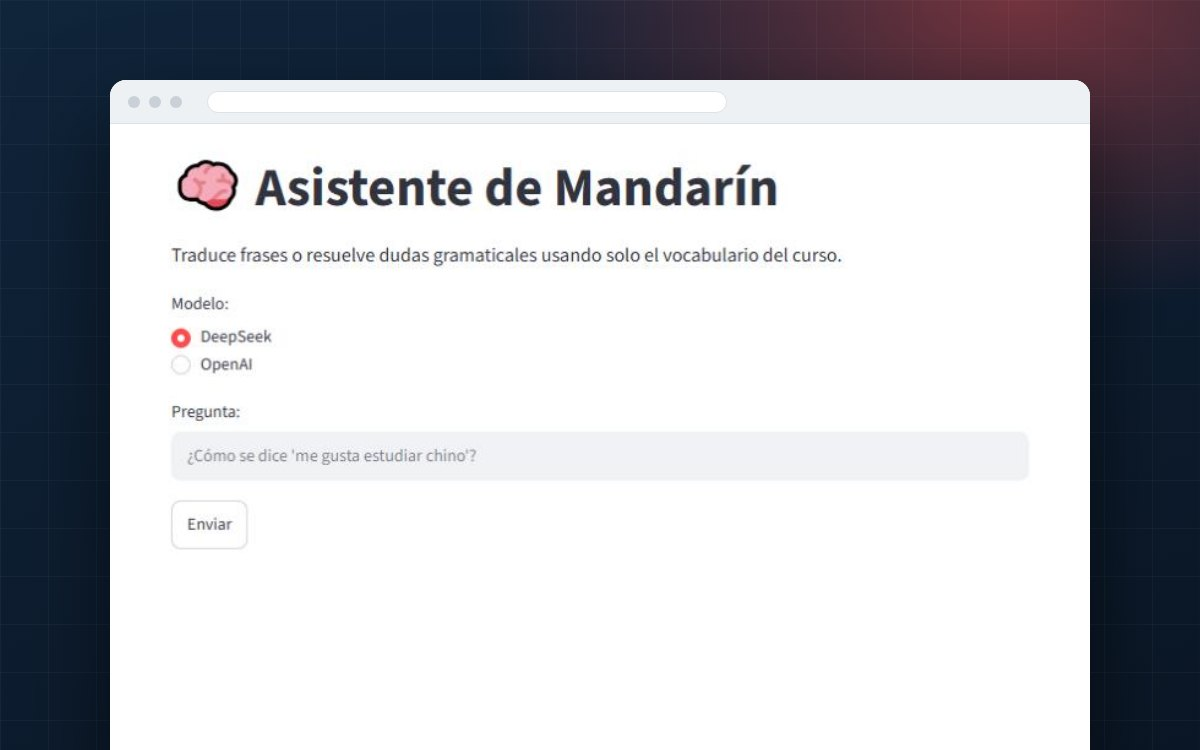
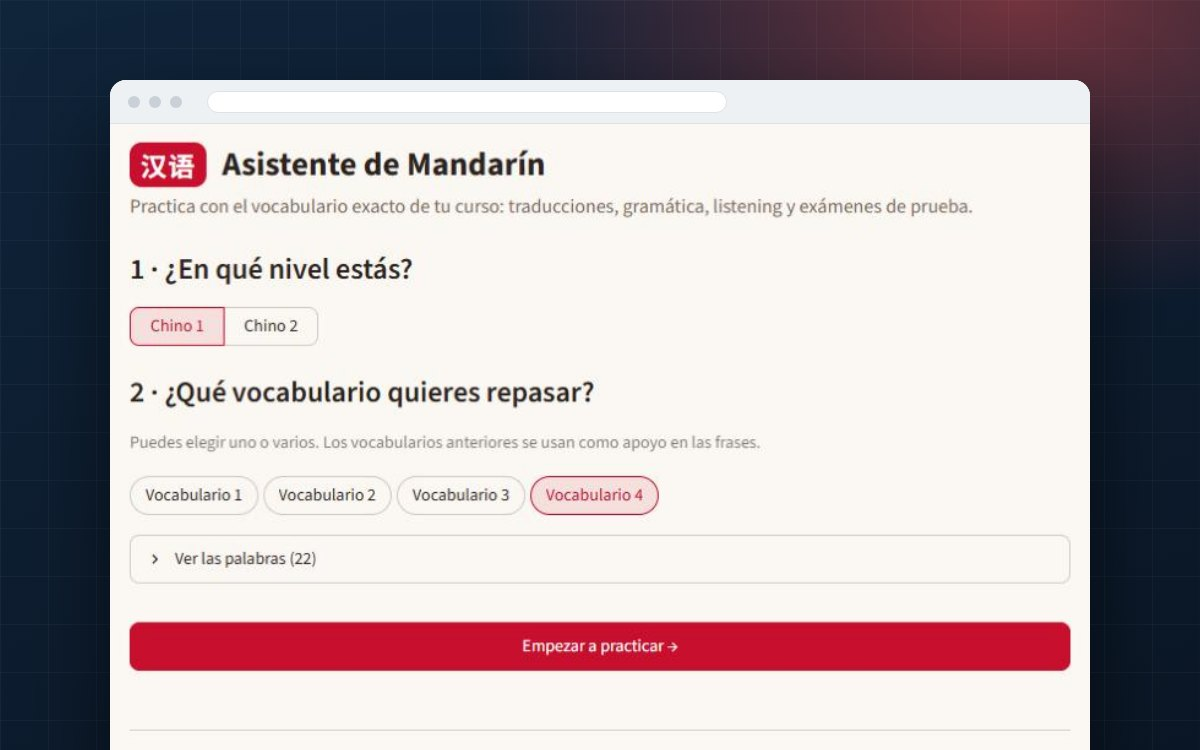
Update Mandarin Assistant card, remove photo, highlight fictional numbers

diff --git a/content.py b/content.py
@@ -237,13 +237,13 @@ PROJECTS = [
             "tag": "AI · Education",
             "title": "Mandarin Assistant",
             "problem": "Generic translators answer with words a beginner has not studied yet, which confuses students more than it helps them.",
-            "solution": "Translates phrases and answers grammar questions using only the vocabulary of the Chinese course, so every answer is something the student can already read.",
+            "solution": "Students pick their level and the vocabulary lists to review, then practice translations, grammar, listening and mock exams built only from the words of their course.",
         },
         "es": {
             "tag": "IA · Educación",
             "title": "Asistente de Mandarín",
             "problem": "Los traductores genéricos responden con palabras que un principiante todavía no ha estudiado, y eso confunde más de lo que ayuda.",
-            "solution": "Traduce frases y resuelve dudas de gramática usando solo el vocabulario del curso de chino, de modo que el estudiante puede leer cada respuesta.",
+            "solution": "El estudiante elige su nivel y los vocabularios que quiere repasar, y practica traducciones, gramática, listening y exámenes de prueba armados solo con las palabras de su curso.",
         },
     },
     {
